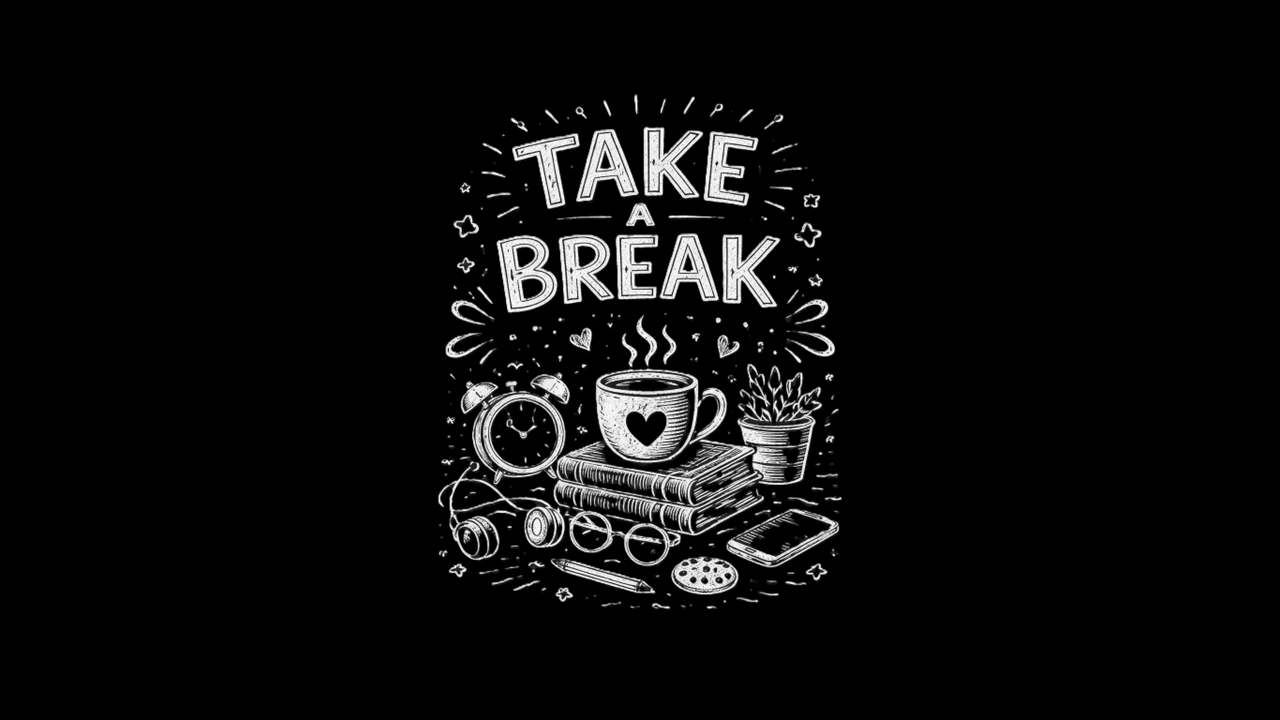
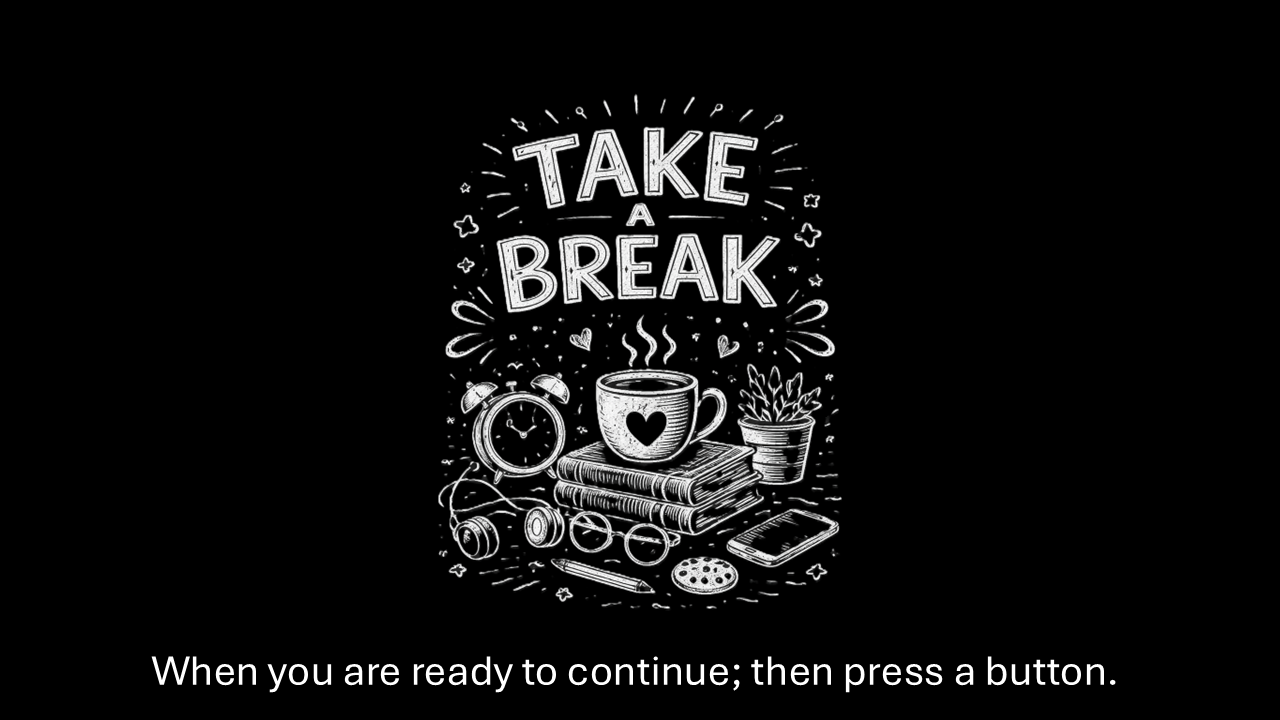
Updated instructions

Changed region(s): [[0.125, 0.9167, 0.875, 0.9778]]

diff --git a/docs/mainz.med.vcpp.v1/Script.py b/docs/mainz.med.vcpp.v1/Script.py
@@ -305,7 +305,8 @@ class ResponseTask:
          return "CROSS"
       
       if id == "REST":
-         return "*" if self.tc.CurrentState.RunningTime < 2000 else "CROSS"
+         if button.IsLatched("1") or button.IsLatched("2"):
+            return "CROSS"         
          
       return "*"
 